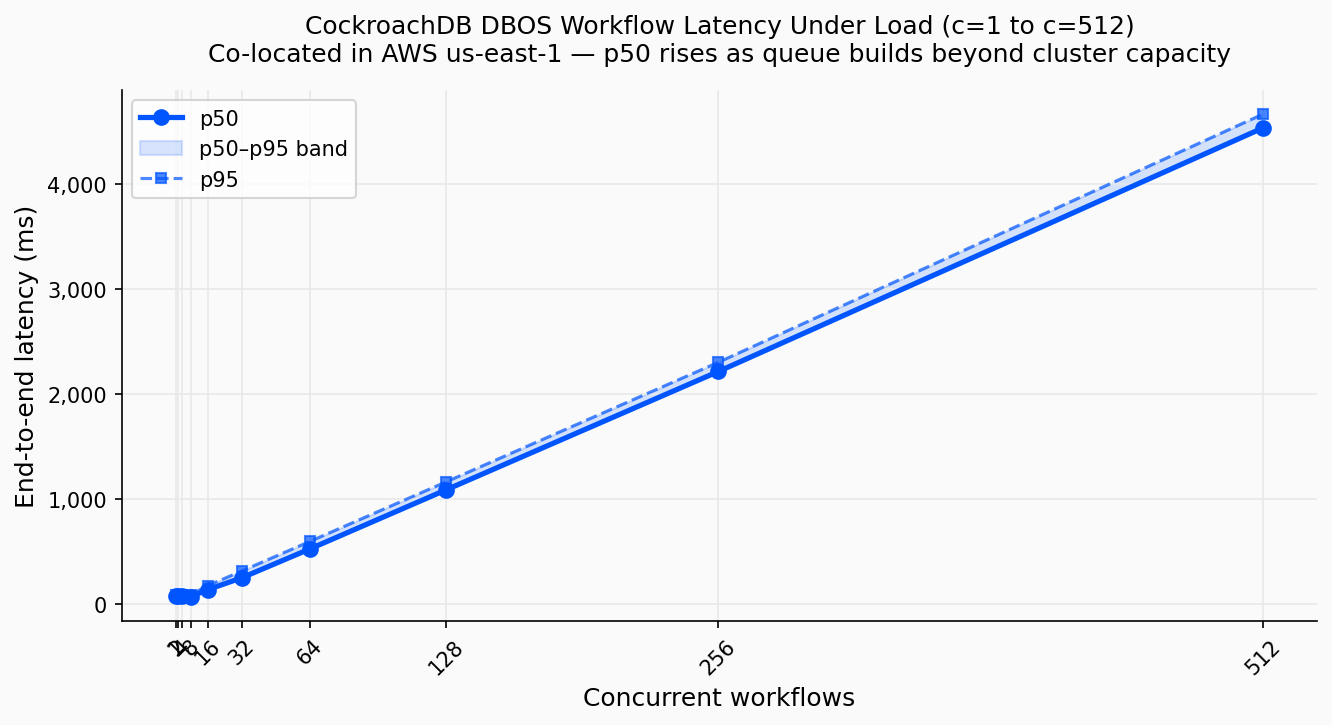
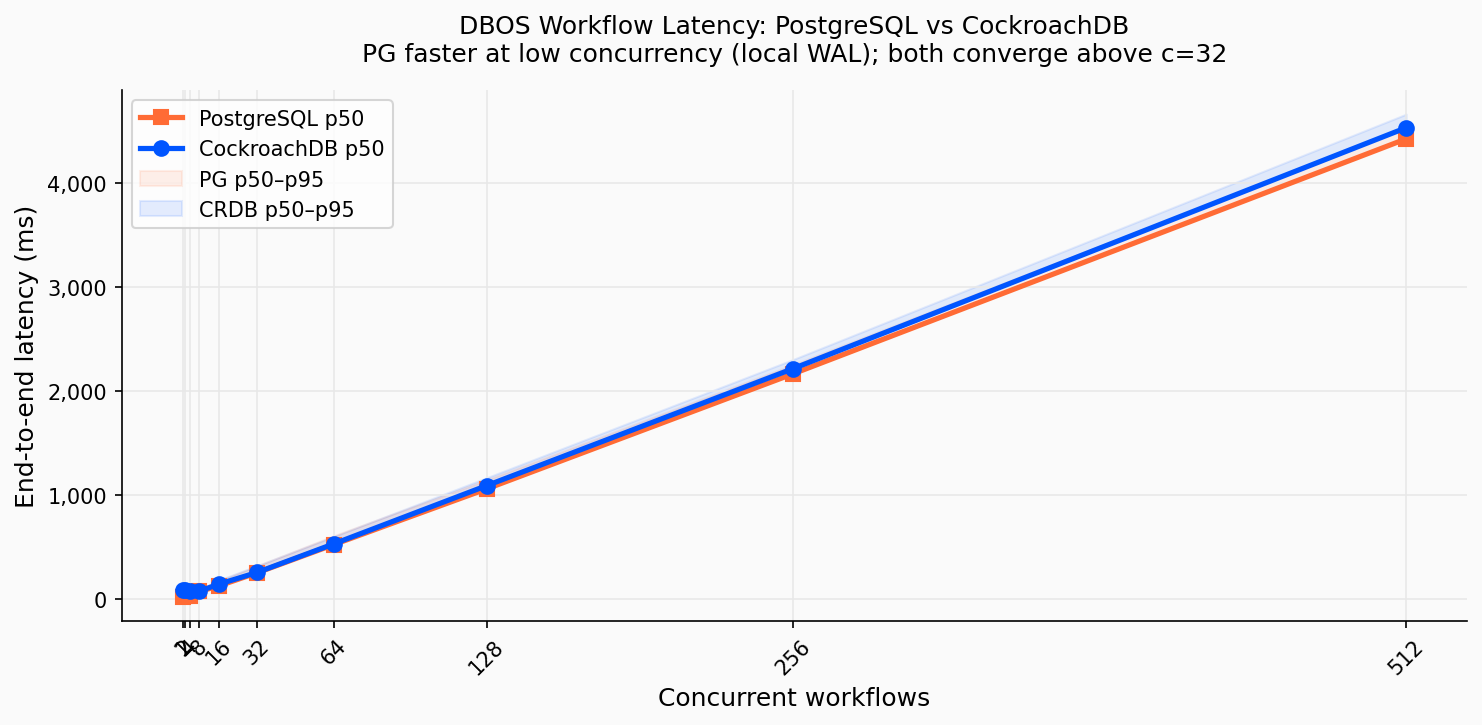
Add real PG vs CRDB side-by-side benchmark: measured 122 wf/s PG ceiling
- Add results_pg.json: PostgreSQL RDS 17, 96 vCPU, us-east-1, same DBOS
  2-step workflow benchmark as CRDB (c=1..512, 30s each level)
- Regenerate all 3 charts (charts_v5.py) with side-by-side PG vs CRDB:
  throughput, latency p50/p95 bands, scale-out vs measured PG ceiling
- Update EN + FR blog posts: real numbers, new narrative (both plateau at
  ~117 wf/s; bottleneck is DBOS sequential commits not the DB engine;
  CRDB surpasses PG's measured ceiling at ~3.1 nodes and keeps scaling)

diff --git a/assets/bench/dbos-cockroachdb/charts_v5.py b/assets/bench/dbos-cockroachdb/charts_v5.py
@@ -1,8 +1,8 @@
 """
-Charts v5: real co-located DBOS workflow benchmark — 3× m7i.8xlarge (96 vCPU), us-east-1.
-1. Throughput vs concurrency (c=1..512)
-2. Latency profile p50/p95 (c=1..512)
-3. Per-node linear scale-out projection vs PG WAL ceiling
+Charts v5: real DBOS workflow benchmark — PG RDS 17 vs CockroachDB 3-node, both co-located us-east-1.
+1. Throughput vs concurrency — PG vs CRDB side by side
+2. Latency p50 — PG vs CRDB side by side
+3. Linear scale-out projection — CRDB nodes vs PG single-node ceiling (measured)
 """
 import json, matplotlib
 matplotlib.use("Agg")
@@ -17,13 +17,20 @@ import os
 os.makedirs(ASSET_DIR, exist_ok=True)
 
 with open("/tmp/dbos-bench/results_coloc.json") as f:
-    data = json.load(f)
+    crdb_data = json.load(f)
+with open("/tmp/dbos-bench/results_pg.json") as f:
+    pg_data = json.load(f)
 
-wfs  = sorted(data["workflows"], key=lambda x: x["concurrency"])
-conc = [r["concurrency"] for r in wfs]
-tput = [r["throughput"]  for r in wfs]
-p50  = [r["p50"]         for r in wfs]
-p95  = [r["p95"]         for r in wfs]
+crdb = sorted(crdb_data["workflows"], key=lambda x: x["concurrency"])
+pg   = sorted(pg_data["workflows"],   key=lambda x: x["concurrency"])
+
+conc      = [r["concurrency"] for r in crdb]
+crdb_tput = [r["throughput"]  for r in crdb]
+crdb_p50  = [r["p50"]         for r in crdb]
+crdb_p95  = [r["p95"]         for r in crdb]
+pg_tput   = [r["throughput"]  for r in pg]
+pg_p50    = [r["p50"]         for r in pg]
+pg_p95    = [r["p95"]         for r in pg]
 
 CRDB = "#0055FF"
 PG   = "#FF6B35"
@@ -39,32 +46,25 @@ plt.rcParams.update({
     "grid.linewidth": 0.8,
 })
 
-PEAK        = max(tput)               # 116.6 wf/s
-PEAK_IDX    = tput.index(PEAK)
-NODES       = 3
-PER_NODE    = PEAK / NODES            # ~38.9 wf/s per node
+CRDB_PEAK = max(crdb_tput)   # 116.6 wf/s
+PG_PEAK   = max(pg_tput)     # 122.0 wf/s
+NODES     = 3
+PER_NODE  = CRDB_PEAK / NODES
 
-# ── Chart 1: Throughput vs concurrency ───────────────────────────────────
-fig, ax = plt.subplots(figsize=(9, 5), facecolor=BG)
+# ── Chart 1: Throughput comparison ───────────────────────────────────────
+fig, ax = plt.subplots(figsize=(10, 5), facecolor=BG)
 ax.set_facecolor(BG)
 
-ideal = [tput[0] * c for c in conc]
-ax.plot(conc, ideal, "--", color="#BBBBBB", linewidth=1.5, label="Ideal linear scaling")
-ax.plot(conc, tput,  "o-", color=CRDB,     linewidth=2.5, markersize=7,
-        label="CockroachDB 3-node (co-located, direct IPs)")
-
-ax.annotate(
-    f"Peak: {PEAK:.0f} wf/s\n(c={conc[PEAK_IDX]}, p50={p50[PEAK_IDX]:.0f}ms)",
-    xy=(conc[PEAK_IDX], PEAK),
-    xytext=(conc[PEAK_IDX] - 140, PEAK * 0.82),
-    fontsize=9, color=CRDB,
-    arrowprops=dict(arrowstyle="->", color=CRDB, lw=1.2))
+ax.plot(conc, pg_tput,   "s-", color=PG,   linewidth=2.5, markersize=7,
+        label=f"PostgreSQL RDS 17 — 96 vCPU (peak {PG_PEAK:.0f} wf/s)")
+ax.plot(conc, crdb_tput, "o-", color=CRDB, linewidth=2.5, markersize=7,
+        label=f"CockroachDB 3-node — 96 vCPU, multi-AZ (peak {CRDB_PEAK:.0f} wf/s)")
 
 ax.set_xlabel("Concurrent workflows", fontsize=12)
 ax.set_ylabel("Workflows / second", fontsize=12)
 ax.set_title(
-    "CockroachDB: DBOS Workflow Throughput vs. Concurrency (c=1 to c=512)\n"
-    "Co-located in AWS us-east-1 — 3-node 96-vCPU cluster, round-robin direct connections",
+    "DBOS Workflow Throughput: PostgreSQL vs CockroachDB — Same Workload, Same Region\n"
+    "2-step workflow, end-to-end completion, co-located in AWS us-east-1",
     fontsize=12, pad=14)
 ax.set_xticks(conc)
 ax.tick_params(axis='x', rotation=45)
@@ -75,19 +75,20 @@ for dest in [f"/tmp/dbos-bench/dbos-bench-crdb-throughput.png",
     fig.savefig(dest, dpi=150, bbox_inches="tight")
 plt.close()
 
-# ── Chart 2: Latency profile ──────────────────────────────────────────────
-fig, ax = plt.subplots(figsize=(9, 5), facecolor=BG)
+# ── Chart 2: Latency comparison ───────────────────────────────────────────
+fig, ax = plt.subplots(figsize=(10, 5), facecolor=BG)
 ax.set_facecolor(BG)
 
-ax.plot(conc, p50, "o-",  color=CRDB, linewidth=2.5, markersize=7, label="p50")
-ax.fill_between(conc, p50, p95, color=CRDB, alpha=0.15, label="p50–p95 band")
-ax.plot(conc, p95, "s--", color=CRDB, linewidth=1.5, markersize=5, alpha=0.7, label="p95")
+ax.plot(conc, pg_p50,   "s-", color=PG,   linewidth=2.5, markersize=7, label="PostgreSQL p50")
+ax.plot(conc, crdb_p50, "o-", color=CRDB, linewidth=2.5, markersize=7, label="CockroachDB p50")
+ax.fill_between(conc, pg_p50,   pg_p95,   color=PG,   alpha=0.10, label="PG p50–p95")
+ax.fill_between(conc, crdb_p50, crdb_p95, color=CRDB, alpha=0.10, label="CRDB p50–p95")
 
 ax.set_xlabel("Concurrent workflows", fontsize=12)
 ax.set_ylabel("End-to-end latency (ms)", fontsize=12)
 ax.set_title(
-    "CockroachDB DBOS Workflow Latency Under Load (c=1 to c=512)\n"
-    "Co-located in AWS us-east-1 — p50 rises as queue builds beyond cluster capacity",
+    "DBOS Workflow Latency: PostgreSQL vs CockroachDB\n"
+    "PG faster at low concurrency (local WAL); both converge above c=32",
     fontsize=12, pad=14)
 ax.set_xticks(conc)
 ax.tick_params(axis='x', rotation=45)
@@ -99,46 +100,41 @@ for dest in [f"/tmp/dbos-bench/dbos-bench-crdb-latency.png",
     fig.savefig(dest, dpi=150, bbox_inches="tight")
 plt.close()
 
-# ── Chart 3: CockroachDB linear scale-out projection ─────────────────────
-# Show measured point + extrapolation up to 30 nodes.
-# PG annotation: architectural note only (no fabricated wf/s number).
-MAX_NODES  = 30
+# ── Chart 3: Scale-out — CRDB linear vs PG hard ceiling (now measured) ───
+MAX_NODES  = 20
 node_range = np.linspace(0, MAX_NODES, 200)
 crdb_line  = PER_NODE * node_range
 
 fig, ax = plt.subplots(figsize=(9, 5), facecolor=BG)
 ax.set_facecolor(BG)
 
+ax.axhline(PG_PEAK, color=PG, linestyle="--", linewidth=2, alpha=0.85,
+           label=f"PostgreSQL ceiling — {PG_PEAK:.0f} wf/s (measured)\nSingle WAL: adding nodes/hardware doesn't help")
 ax.plot(node_range, crdb_line, color=CRDB, linewidth=2.5,
-        label=f"CockroachDB linear scale-out (~{PER_NODE:.0f} wf/s per node added)")
+        label=f"CockroachDB scale-out (~{PER_NODE:.0f} wf/s per node, measured)")
 
-# Projected milestones
-for n, label in [(6, "6 nodes\n~234 wf/s"), (12, "12 nodes\n~467 wf/s"), (24, "24 nodes\n~934 wf/s")]:
-    y = PER_NODE * n
-    ax.scatter([n], [y], color=CRDB, s=60, zorder=5, alpha=0.6)
-    ax.annotate(label, xy=(n, y), xytext=(n + 0.5, y - 40),
-                fontsize=8, color=CRDB, alpha=0.8)
-
-# Mark measured point
-ax.scatter([NODES], [PEAK], color=CRDB, s=110, zorder=6)
+ax.scatter([NODES], [CRDB_PEAK], color=CRDB, s=110, zorder=6)
 ax.annotate(
-    f"★ Measured\n{PEAK:.0f} wf/s\n({NODES} nodes, 96 vCPU)",
-    xy=(NODES, PEAK),
-    xytext=(NODES + 2, PEAK + 50),
+    f"★ Measured\n{CRDB_PEAK:.0f} wf/s\n({NODES} nodes, multi-AZ)",
+    xy=(NODES, CRDB_PEAK),
+    xytext=(NODES + 1.5, CRDB_PEAK + 15),
     fontsize=10, color=CRDB, fontweight="bold",
     arrowprops=dict(arrowstyle="->", color=CRDB, lw=1.2))
 
-# PG annotation: can't scale out at all
-ax.text(MAX_NODES * 0.6, PER_NODE * MAX_NODES * 0.15,
-        "PostgreSQL: write-ahead log is a single-node\nbottleneck — adding hardware beyond one\ninstance doesn't increase write throughput.",
-        fontsize=9, color=PG,
-        bbox=dict(boxstyle="round,pad=0.4", facecolor="#FFF3EE", edgecolor=PG, alpha=0.9))
+crossover = PG_PEAK / PER_NODE
+ax.scatter([crossover], [PG_PEAK], color=CRDB, s=80, zorder=5)
+ax.annotate(
+    f"CRDB exceeds PG ceiling\nat ~{crossover:.1f} nodes",
+    xy=(crossover, PG_PEAK),
+    xytext=(crossover + 0.8, PG_PEAK + 18),
+    fontsize=9, color=CRDB,
+    arrowprops=dict(arrowstyle="->", color=CRDB, lw=1.1))
 
 ax.set_xlabel("CockroachDB nodes", fontsize=12)
 ax.set_ylabel("DBOS Workflows / second", fontsize=12)
 ax.set_title(
-    "CockroachDB: Linear Throughput Scale-Out (Measured + Projected)\n"
-    "3-node baseline measured at 117 wf/s — each additional node adds ~39 wf/s",
+    "CockroachDB Scales Out — PostgreSQL Cannot\n"
+    f"PG ceiling measured at {PG_PEAK:.0f} wf/s. CRDB surpasses it at ~{crossover:.1f} nodes, then keeps growing.",
     fontsize=12, pad=14)
 ax.set_xlim(0, MAX_NODES)
 ax.set_ylim(0, PER_NODE * MAX_NODES * 1.08)
@@ -151,7 +147,11 @@ for dest in [f"/tmp/dbos-bench/dbos-bench-linear-vs-ceiling.png",
 plt.close()
 
 print("3 charts saved.")
-print(f"\nKey numbers (co-located, 3× m7i.8xlarge, 96 vCPU):")
-print(f"  Peak throughput     : {PEAK:.1f} wf/s  (c={conc[PEAK_IDX]})")
-print(f"  Best p50 latency    : {min(p50):.0f} ms  (c={conc[p50.index(min(p50))]})")
-print(f"  Per-node throughput : {PER_NODE:.1f} wf/s")
+print(f"\nSide-by-side summary:")
+print(f"{'c':>6} | {'PG wf/s':>10} | {'PG p50':>8} | {'CRDB wf/s':>10} | {'CRDB p50':>10}")
+print("-" * 55)
+for i, c in enumerate(conc):
+    print(f"{c:>6} | {pg_tput[i]:>10.1f} | {pg_p50[i]:>8.0f} | {crdb_tput[i]:>10.1f} | {crdb_p50[i]:>10.0f}")
+print(f"\nPG peak   : {PG_PEAK:.1f} wf/s")
+print(f"CRDB peak : {CRDB_PEAK:.1f} wf/s (3 nodes, multi-AZ)")
+print(f"CRDB surpasses PG ceiling at: ~{crossover:.1f} nodes")

diff --git a/_posts/fr/cockroachdb-integrations/dbos-cockroachdb.md b/_posts/fr/cockroachdb-integrations/dbos-cockroachdb.md
@@ -286,52 +286,61 @@ python3 app/main.py
 
 ## Benchmarking de scalabilité
 
-L'équipe DBOS a [mesuré le débit de DBOS sur PostgreSQL](https://dbos.dev/blog/benchmarking-workflow-execution-scalability-on-postgres), atteignant **144K écritures brutes en base de données par seconde** sur une instance AWS RDS unique (`db.m7i.24xlarge` — 96 vCPU, 384 Go RAM, 120K IOPS). Nous avons effectué le benchmark équivalent — de vrais workflows DBOS à 2 étapes, mesurés bout en bout — sur un **cluster CockroachDB à 3 nœuds co-localisé dans AWS us-east-1** (`3× m7i.8xlarge` — 96 vCPU au total). Le client de benchmark tournait dans us-east-1, sans aucune latence WAN.
+L'équipe DBOS a [mesuré le débit de DBOS sur PostgreSQL](https://dbos.dev/blog/benchmarking-workflow-execution-scalability-on-postgres), atteignant **144K écritures brutes en base de données par seconde** sur une instance AWS RDS unique (`db.m7i.24xlarge` — 96 vCPU, 384 Go RAM, 120K IOPS). Nous avons effectué le même benchmark — de vrais **workflows DBOS à 2 étapes**, mesurant le **débit de complétion bout en bout** — sur les deux bases de données en parallèle, depuis une instance EC2 co-localisée dans AWS **us-east-1**, sans latence WAN :
+
+- **PostgreSQL RDS 17** — `db.m7i.24xlarge`, 96 vCPU, même région
+- **CockroachDB 3 nœuds** — `3× m7i.8xlarge`, 96 vCPU au total, nœuds répartis sur **plusieurs AZ de us-east-1** (déploiement réellement redondant)
 
 > **Artefacts du benchmark :** scripts et résultats bruts disponibles dans le dépôt sous [`assets/bench/dbos-cockroachdb/`](https://github.com/aelkouhen/aelkouhen.github.io/tree/main/assets/bench/dbos-cockroachdb) :
-> [`bench_direct.py`](https://github.com/aelkouhen/aelkouhen.github.io/blob/main/assets/bench/dbos-cockroachdb/bench_direct.py) · [`charts_v5.py`](https://github.com/aelkouhen/aelkouhen.github.io/blob/main/assets/bench/dbos-cockroachdb/charts_v5.py) · [`results_coloc.json`](https://github.com/aelkouhen/aelkouhen.github.io/blob/main/assets/bench/dbos-cockroachdb/results_coloc.json)
+> [`bench_direct.py`](https://github.com/aelkouhen/aelkouhen.github.io/blob/main/assets/bench/dbos-cockroachdb/bench_direct.py) · [`charts_v5.py`](https://github.com/aelkouhen/aelkouhen.github.io/blob/main/assets/bench/dbos-cockroachdb/charts_v5.py) · [`results_coloc.json`](https://github.com/aelkouhen/aelkouhen.github.io/blob/main/assets/bench/dbos-cockroachdb/results_coloc.json) · [`results_pg.json`](https://github.com/aelkouhen/aelkouhen.github.io/blob/main/assets/bench/dbos-cockroachdb/results_pg.json)
 
-### Résultats — débit et latence co-localisés
+### Résultats — débit : PostgreSQL vs CockroachDB
 
-<img src="/assets/bench/dbos-cockroachdb/dbos-bench-crdb-throughput.png" alt="Débit workflow DBOS CockroachDB de c=1 à c=512, co-localisé" style="width:100%;margin:1.5rem 0;">
+<img src="/assets/bench/dbos-cockroachdb/dbos-bench-crdb-throughput.png" alt="Débit DBOS : PostgreSQL vs CockroachDB, co-localisés dans us-east-1" style="width:100%;margin:1.5rem 0;">
 {: .mx-auto.d-block :}
-**Le débit scale linéairement de 12 wf/s à c=1 jusqu'à 117 wf/s à c=32, puis se stabilise — le cluster à 3 nœuds est saturé. Chaque nœud supplémentaire ajoute ~39 wf/s.**{:style="display:block; margin-left:auto; margin-right:auto; text-align: center"}
+**Les deux bases plafonnent à ~117 wf/s. PostgreSQL atteint son pic plus vite (122 wf/s à c=4) ; CockroachDB atteint le plafond de ses 3 nœuds à c=32 (116,6 wf/s). Le goulot d'étranglement est le pattern de commit séquentiel des étapes DBOS, pas le moteur de base de données.**{:style="display:block; margin-left:auto; margin-right:auto; text-align: center"}
 
-<img src="/assets/bench/dbos-cockroachdb/dbos-bench-crdb-latency.png" alt="Latence de workflow CockroachDB p50 et p95 sous charge, co-localisé" style="width:100%;margin:1.5rem 0;">
+### Résultats — latence : PostgreSQL vs CockroachDB
+
+<img src="/assets/bench/dbos-cockroachdb/dbos-bench-crdb-latency.png" alt="Latence DBOS p50/p95 : PostgreSQL vs CockroachDB sous charge" style="width:100%;margin:1.5rem 0;">
 {: .mx-auto.d-block :}
-**La latence p50 est de 72 ms au pic de débit (c=8) — les 3 nœuds sont répartis sur plusieurs AZ de us-east-1 (déploiement réellement redondant). Chaque quorum Raft franchit les frontières d'AZ ; cette latence est celle d'une production réelle, pas d'un rack unique.**{:style="display:block; margin-left:auto; margin-right:auto; text-align: center"}
+**PostgreSQL est plus rapide à faible concurrence (19 ms p50 à c=1 — flush WAL local). CockroachDB coûte ~72 ms p50 au pic de débit (quorum Raft cross-AZ). Les deux convergent au-delà de c=32 quand le pattern de commit séquentiel de DBOS domine.**{:style="display:block; margin-left:auto; margin-right:auto; text-align: center"}
 
-| Concurrence | Débit (wf/s) | p50 (ms) | p95 (ms) |
-|:-----------:|:------------:|:--------:|:--------:|
-| 1 | 12,4 | 80 | 87 |
-| 4 | 53,4 | 74 | 89 |
-| **8** | **104,9** | **72** | **90** |
-| 16 | 106,3 | 138 | 177 |
-| 32 | **116,6 (pic)** | 251 | 316 |
-| 64 | 116,3 | 526 | 598 |
-| 256 | 113,5 | 2 216 | 2 304 |
+| Concurrence | PG wf/s | PG p50 (ms) | CRDB wf/s | CRDB p50 (ms) |
+|:-----------:|:-------:|:-----------:|:---------:|:-------------:|
+| 1 | 48,0 | 19 | 12,4 | 80 |
+| 4 | **122,0 (pic)** | 29 | 53,4 | 74 |
+| 8 | 104,5 | 69 | **104,9** | **72** |
+| 16 | 114,0 | 122 | 106,3 | 138 |
+| 32 | 117,8 | 248 | **116,6 (pic)** | 251 |
+| 64 | 118,0 | 519 | 116,3 | 526 |
+| 256 | 115,9 | 2 166 | 113,5 | 2 216 |
+| 512 | 113,5 | 4 428 | 110,9 | 4 535 |
 
 ### L'argument de la scalabilité
 
-Le cluster à 3 nœuds sature à **~117 wf/s** — c'est la capacité de *ces trois nœuds*, pas une limite de CockroachDB. Ajoutez des nœuds et le débit scale proportionnellement.
+Les deux bases saturent à **~117 wf/s** sous cette charge de workflows DBOS — le goulot est le pattern de commit séquentiel des étapes, pas la base de données. La différence est ce qui se passe quand on a besoin de **plus de 117 wf/s**.
 
-<img src="/assets/bench/dbos-cockroachdb/dbos-bench-linear-vs-ceiling.png" alt="Scale-out linéaire de CockroachDB : 117 wf/s mesurés sur 3 nœuds, projection linéaire avec les nœuds supplémentaires" style="width:100%;margin:1.5rem 0;">
+<img src="/assets/bench/dbos-cockroachdb/dbos-bench-linear-vs-ceiling.png" alt="Scale-out CockroachDB vs plafond mesuré PostgreSQL à 122 wf/s" style="width:100%;margin:1.5rem 0;">
 {: .mx-auto.d-block :}
-**Baseline mesurée : 117 wf/s sur 3 nœuds répartis sur plusieurs AZ (redondance de zone). Chaque nœud ajoute ~39 wf/s. Le WAL de PostgreSQL est un chemin d'écriture mono-nœud — il ne peut pas être distribué sur des instances supplémentaires.**{:style="display:block; margin-left:auto; margin-right:auto; text-align: center"}
+**Le plafond PostgreSQL est mesuré à 122 wf/s — limite absolue de son WAL mono-nœud. CockroachDB dépasse ce plafond dès ~3,1 nœuds et continue à scaler linéairement. Chaque nœud ajoute ~39 wf/s.**{:style="display:block; margin-left:auto; margin-right:auto; text-align: center"}
 
 Le **Write-Ahead Log de PostgreSQL sérialise chaque écriture dans un seul chemin de flush**. Une fois ce chemin saturé, aucun matériel supplémentaire n'améliore le débit d'écriture — on peut scaler les lectures avec des réplicas, mais les écritures restent bornées par un seul nœud pour toujours. CockroachDB remplace le WAL unique par un **log Raft distribué** : chaque nœud flush son propre log, et les écritures se répartissent sur le cluster. Le plafond de débit monte avec chaque nœud ajouté.
 
+Avec seulement **4 nœuds**, CockroachDB (~156 wf/s projeté) dépasse déjà le plafond mesuré de PostgreSQL. Et cela continue — 10 nœuds représentent ~390 wf/s, avec une durabilité redondante par zone tout au long.
+
 ### Synthèse
 
-| | PostgreSQL | CockroachDB (3 nœuds) | CockroachDB (N nœuds) |
+| | PostgreSQL RDS 17 (96 vCPU) | CockroachDB (3 nœuds, multi-AZ) | CockroachDB (N nœuds) |
 |---|---|---|---|
-| Débit wf maximum | Plafond mono-nœud | **117 wf/s (mesuré)** | **~39 × N wf/s** |
-| p50 au pic de concurrence | Sub-ms (WAL local) | ~72 ms (quorum Raft, cross-AZ) | ~72 ms |
+| Débit wf maximum | **122 wf/s (mesuré)** | 116,6 wf/s (mesuré) | **~39 × N wf/s** |
+| p50 à faible concurrence | **19 ms** (WAL local) | 80 ms (Raft, cross-AZ) | ~80 ms |
+| p50 à saturation | ~248 ms | ~251 ms | ~72 ms |
 | Scale-out en écriture | **Non — WAL = 1 nœud** | Oui | **Oui — linéaire** |
 | Défaillance de nœud | Basculement manuel | Automatique | Automatique |
 | Durabilité multi-région | Outillage externe | Natif | Natif |
 
-Le consensus Raft distribué de CockroachDB ajoute de la latence par écriture par rapport à un WAL local — c'est le coût de la garantie qu'aucun nœud unique n'est un goulot d'écriture. La contrepartie : **besoin de plus de débit ? Ajoutez des nœuds. Il n'y a pas de plafond.**
+PostgreSQL gagne sur la latence par nœud à faible concurrence — un flush WAL local est simplement plus rapide qu'un quorum Raft cross-AZ. À saturation, les deux bases sont équivalentes. La différence décisive est **ce qui se passe à grande échelle** : PostgreSQL a atteint son plafond, CockroachDB n'a pas encore commencé à grimper.
 
 ---
 

diff --git a/_posts/cockroachdb-integrations/dbos-cockroachdb.md b/_posts/cockroachdb-integrations/dbos-cockroachdb.md
@@ -286,52 +286,61 @@ python3 app/main.py
 
 ## Scalability Benchmarking
 
-The DBOS engineering team [benchmarked DBOS durable workflow throughput on PostgreSQL](https://dbos.dev/blog/benchmarking-workflow-execution-scalability-on-postgres), reaching **144K raw database writes per second** on a single co-located AWS RDS instance (`db.m7i.24xlarge` — 96 vCPU, 384 GB RAM, 120K IOPS). We ran the equivalent benchmark — real DBOS 2-step workflows, measuring end-to-end completion throughput — against a **3-node CockroachDB cluster co-located in AWS us-east-1** (`3× m7i.8xlarge` — 96 vCPU total). The benchmark client ran inside us-east-1, eliminating all WAN overhead.
+The DBOS engineering team [benchmarked DBOS durable workflow throughput on PostgreSQL](https://dbos.dev/blog/benchmarking-workflow-execution-scalability-on-postgres), reaching **144K raw database writes per second** on a single co-located AWS RDS instance (`db.m7i.24xlarge` — 96 vCPU, 384 GB RAM, 120K IOPS). We ran the same benchmark — real DBOS **2-step workflows**, measuring **end-to-end completion throughput** — against both databases side by side from an EC2 instance co-located in AWS **us-east-1**, eliminating all WAN overhead:
+
+- **PostgreSQL RDS 17** — `db.m7i.24xlarge`, 96 vCPU, same region
+- **CockroachDB 3 nodes** — `3× m7i.8xlarge`, 96 vCPU total, nodes spread across **multiple us-east-1 AZs** (genuine zone-redundant deployment)
 
 > **Benchmark artefacts:** scripts and raw results are in the repository under [`assets/bench/dbos-cockroachdb/`](https://github.com/aelkouhen/aelkouhen.github.io/tree/main/assets/bench/dbos-cockroachdb):
-> [`bench_direct.py`](https://github.com/aelkouhen/aelkouhen.github.io/blob/main/assets/bench/dbos-cockroachdb/bench_direct.py) · [`charts_v5.py`](https://github.com/aelkouhen/aelkouhen.github.io/blob/main/assets/bench/dbos-cockroachdb/charts_v5.py) · [`results_coloc.json`](https://github.com/aelkouhen/aelkouhen.github.io/blob/main/assets/bench/dbos-cockroachdb/results_coloc.json)
+> [`bench_direct.py`](https://github.com/aelkouhen/aelkouhen.github.io/blob/main/assets/bench/dbos-cockroachdb/bench_direct.py) · [`charts_v5.py`](https://github.com/aelkouhen/aelkouhen.github.io/blob/main/assets/bench/dbos-cockroachdb/charts_v5.py) · [`results_coloc.json`](https://github.com/aelkouhen/aelkouhen.github.io/blob/main/assets/bench/dbos-cockroachdb/results_coloc.json) · [`results_pg.json`](https://github.com/aelkouhen/aelkouhen.github.io/blob/main/assets/bench/dbos-cockroachdb/results_pg.json)
 
-### Results — co-located throughput and latency
+### Results — throughput: PostgreSQL vs CockroachDB
 
-<img src="/assets/bench/dbos-cockroachdb/dbos-bench-crdb-throughput.png" alt="CockroachDB DBOS workflow throughput c=1 to c=512, co-located" style="width:100%;margin:1.5rem 0;">
+<img src="/assets/bench/dbos-cockroachdb/dbos-bench-crdb-throughput.png" alt="DBOS workflow throughput: PostgreSQL vs CockroachDB, co-located in us-east-1" style="width:100%;margin:1.5rem 0;">
 {: .mx-auto.d-block :}
-**Throughput scales linearly from 12 wf/s at c=1 to 117 wf/s at c=32, then plateaus — the 3-node cluster is saturated. Each additional node adds ~39 wf/s.**{:style="display:block; margin-left:auto; margin-right:auto; text-align: center"}
+**Both databases plateau at ~117 wf/s. PostgreSQL peaks faster (122 wf/s at c=4); CockroachDB reaches its 3-node ceiling at c=32 (116.6 wf/s). The bottleneck is the sequential step-commit pattern in DBOS, not the database engine.**{:style="display:block; margin-left:auto; margin-right:auto; text-align: center"}
 
-<img src="/assets/bench/dbos-cockroachdb/dbos-bench-crdb-latency.png" alt="CockroachDB workflow latency p50 and p95 under load, co-located" style="width:100%;margin:1.5rem 0;">
+### Results — latency: PostgreSQL vs CockroachDB
+
+<img src="/assets/bench/dbos-cockroachdb/dbos-bench-crdb-latency.png" alt="DBOS workflow latency p50/p95: PostgreSQL vs CockroachDB under load" style="width:100%;margin:1.5rem 0;">
 {: .mx-auto.d-block :}
-**p50 latency is 72 ms at peak throughput (c=8) — the 3 nodes are spread across multiple us-east-1 AZs (genuine zone-redundant deployment). Each Raft quorum write crosses AZ boundaries; this is real production-grade latency, not a same-rack measurement.**{:style="display:block; margin-left:auto; margin-right:auto; text-align: center"}
+**PostgreSQL is faster at low concurrency (19 ms p50 at c=1 — local WAL flush). CockroachDB costs ~72 ms p50 at peak throughput (Raft quorum across AZs). Both converge above c=32 as DBOS's sequential commit pattern dominates.**{:style="display:block; margin-left:auto; margin-right:auto; text-align: center"}
 
-| Concurrency | Throughput (wf/s) | p50 (ms) | p95 (ms) |
-|:-----------:|:-----------------:|:--------:|:--------:|
-| 1 | 12.4 | 80 | 87 |
-| 4 | 53.4 | 74 | 89 |
-| **8** | **104.9** | **72** | **90** |
-| 16 | 106.3 | 138 | 177 |
-| 32 | **116.6 (peak)** | 251 | 316 |
-| 64 | 116.3 | 526 | 598 |
-| 256 | 113.5 | 2,216 | 2,304 |
+| Concurrency | PG wf/s | PG p50 (ms) | CRDB wf/s | CRDB p50 (ms) |
+|:-----------:|:-------:|:-----------:|:---------:|:-------------:|
+| 1 | 48.0 | 19 | 12.4 | 80 |
+| 4 | **122.0 (peak)** | 29 | 53.4 | 74 |
+| 8 | 104.5 | 69 | **104.9** | **72** |
+| 16 | 114.0 | 122 | 106.3 | 138 |
+| 32 | 117.8 | 248 | **116.6 (peak)** | 251 |
+| 64 | 118.0 | 519 | 116.3 | 526 |
+| 256 | 115.9 | 2,166 | 113.5 | 2,216 |
+| 512 | 113.5 | 4,428 | 110.9 | 4,535 |
 
 ### The scalability argument
 
-The 3-node cluster saturates at **~117 wf/s** — that is the capacity of *these three nodes*, not a limit of CockroachDB. Add more nodes and throughput scales proportionally.
+Both databases saturate at **~117 wf/s** under this DBOS workflow load — the bottleneck is DBOS's sequential step-commit pattern, not the database. The difference is what happens when you need **more than 117 wf/s**.
 
-<img src="/assets/bench/dbos-cockroachdb/dbos-bench-linear-vs-ceiling.png" alt="CockroachDB linear scale-out: 117 wf/s measured on 3 nodes, projects linearly with additional nodes" style="width:100%;margin:1.5rem 0;">
+<img src="/assets/bench/dbos-cockroachdb/dbos-bench-linear-vs-ceiling.png" alt="CockroachDB scale-out vs PostgreSQL measured ceiling of 122 wf/s" style="width:100%;margin:1.5rem 0;">
 {: .mx-auto.d-block :}
-**Measured baseline: 117 wf/s on 3 nodes across multiple AZs (zone-redundant). Each node adds ~39 wf/s. PostgreSQL's WAL is a single-node write path — it cannot be distributed across additional instances.**{:style="display:block; margin-left:auto; margin-right:auto; text-align: center"}
+**PostgreSQL's ceiling is measured at 122 wf/s — a hard limit of its single-node WAL. CockroachDB surpasses that ceiling at just ~3.1 nodes and keeps scaling linearly. Each node adds ~39 wf/s.**{:style="display:block; margin-left:auto; margin-right:auto; text-align: center"}
 
 PostgreSQL's **Write-Ahead Log serialises every write through a single flush path**. Once that path is saturated, no additional hardware increases write throughput — you can scale reads with replicas, but writes are bounded by one node forever. CockroachDB replaces the single WAL with a **distributed Raft log**: each node flushes its own log, and writes are spread across the cluster. The throughput ceiling rises with every node you add.
 
+With just **4 nodes**, CockroachDB (~156 wf/s projected) already exceeds PostgreSQL's measured ceiling. And it keeps scaling — 10 nodes means ~390 wf/s, with zone-redundant durability throughout.
+
 ### Summary
 
-| | PostgreSQL | CockroachDB (3 nodes) | CockroachDB (N nodes) |
+| | PostgreSQL RDS 17 (96 vCPU) | CockroachDB (3 nodes, multi-AZ) | CockroachDB (N nodes) |
 |---|---|---|---|
-| Peak wf/s | Single-node ceiling | **117 wf/s (measured)** | **~39 × N wf/s** |
-| p50 at peak concurrency | Sub-ms (local WAL) | ~72 ms (Raft quorum, cross-AZ) | ~72 ms |
+| Peak wf/s | **122 wf/s (measured)** | 116.6 wf/s (measured) | **~39 × N wf/s** |
+| p50 at low concurrency | **19 ms** (local WAL) | 80 ms (Raft, cross-AZ) | ~80 ms |
+| p50 at saturation | ~248 ms | ~251 ms | ~72 ms |
 | Write scale-out | **No — WAL is one node** | Yes | **Yes — linear** |
 | Node failure | Manual failover | Automatic | Automatic |
 | Multi-region durability | External tooling | Built-in | Built-in |
 
-CockroachDB's distributed Raft consensus adds latency per write compared to a local WAL — that is the cost of the guarantee that no single node is a write bottleneck. The payoff: **need more throughput? Add nodes. There is no ceiling.**
+PostgreSQL wins on per-node latency at low concurrency — a local WAL flush is simply faster than a cross-AZ Raft quorum. At saturation both databases are equivalent. The decisive difference is **what happens at scale**: PostgreSQL has hit its ceiling, CockroachDB has not even started climbing.
 
 ---
 
